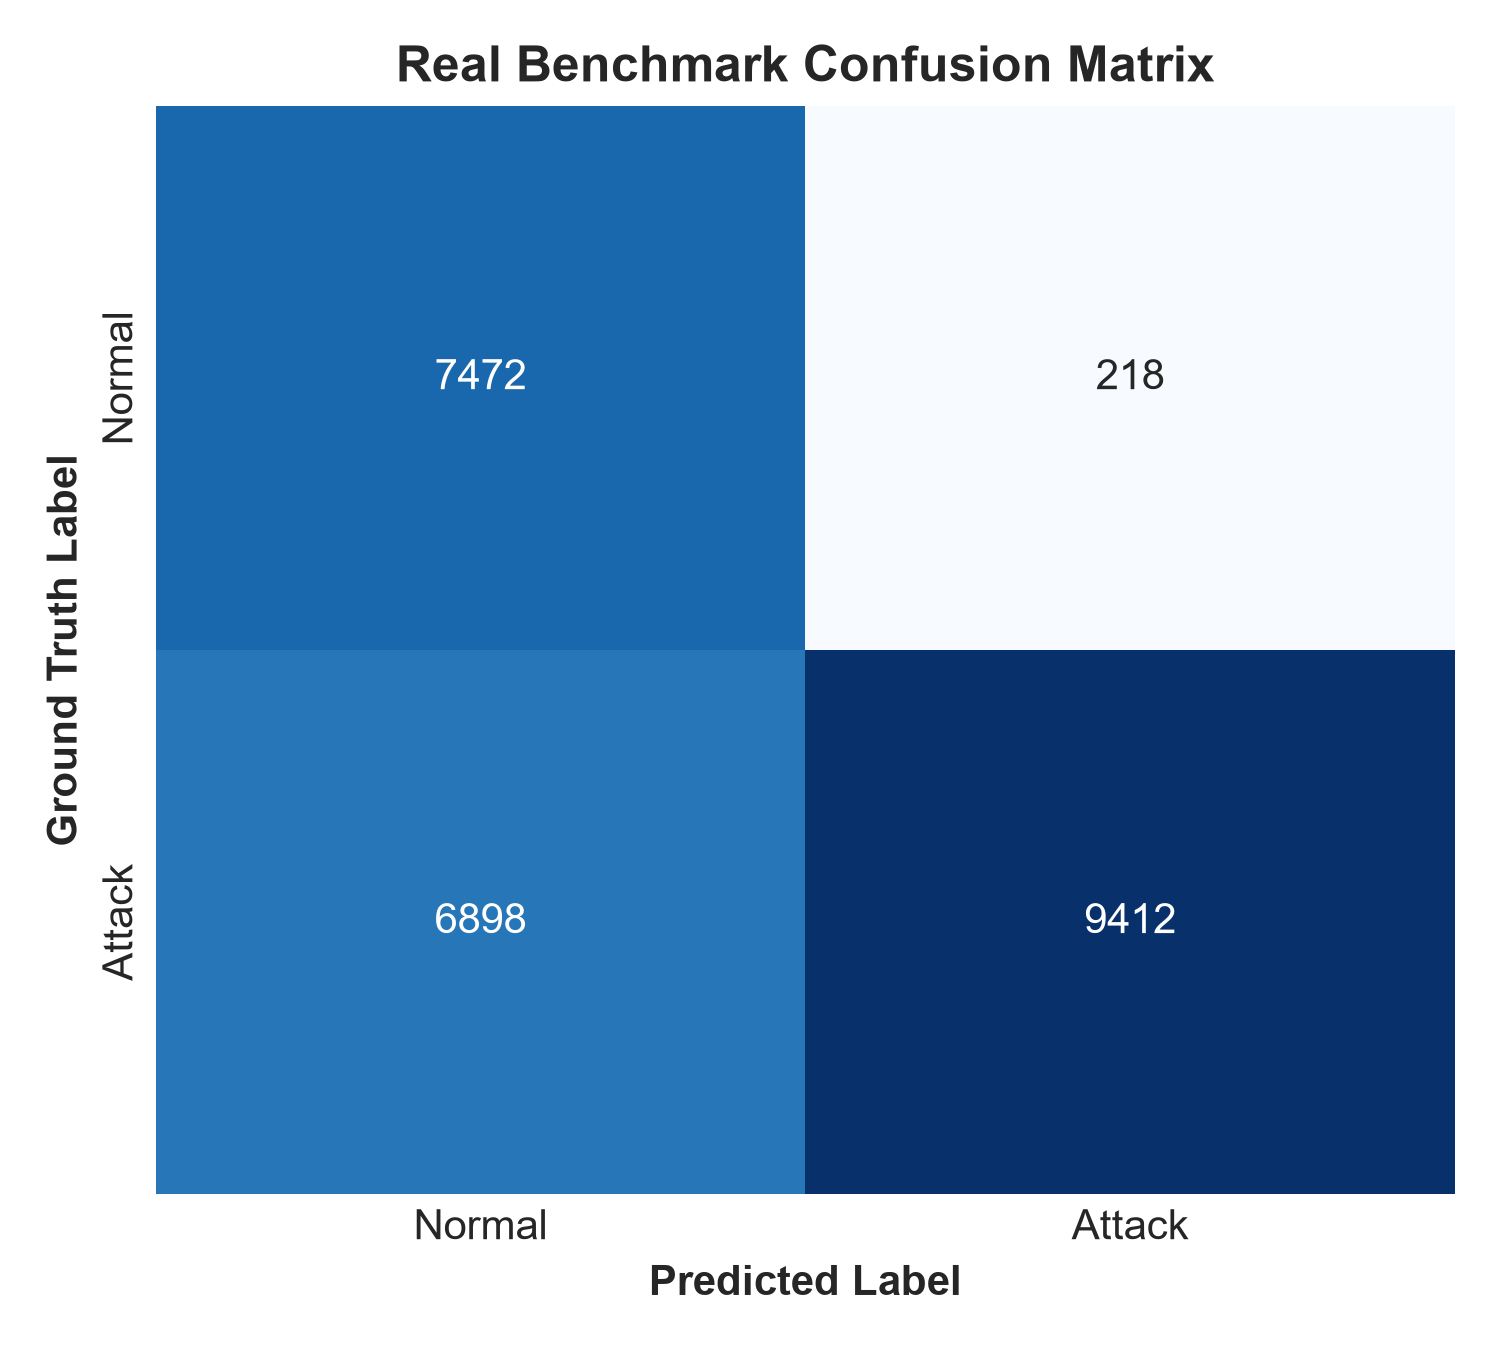
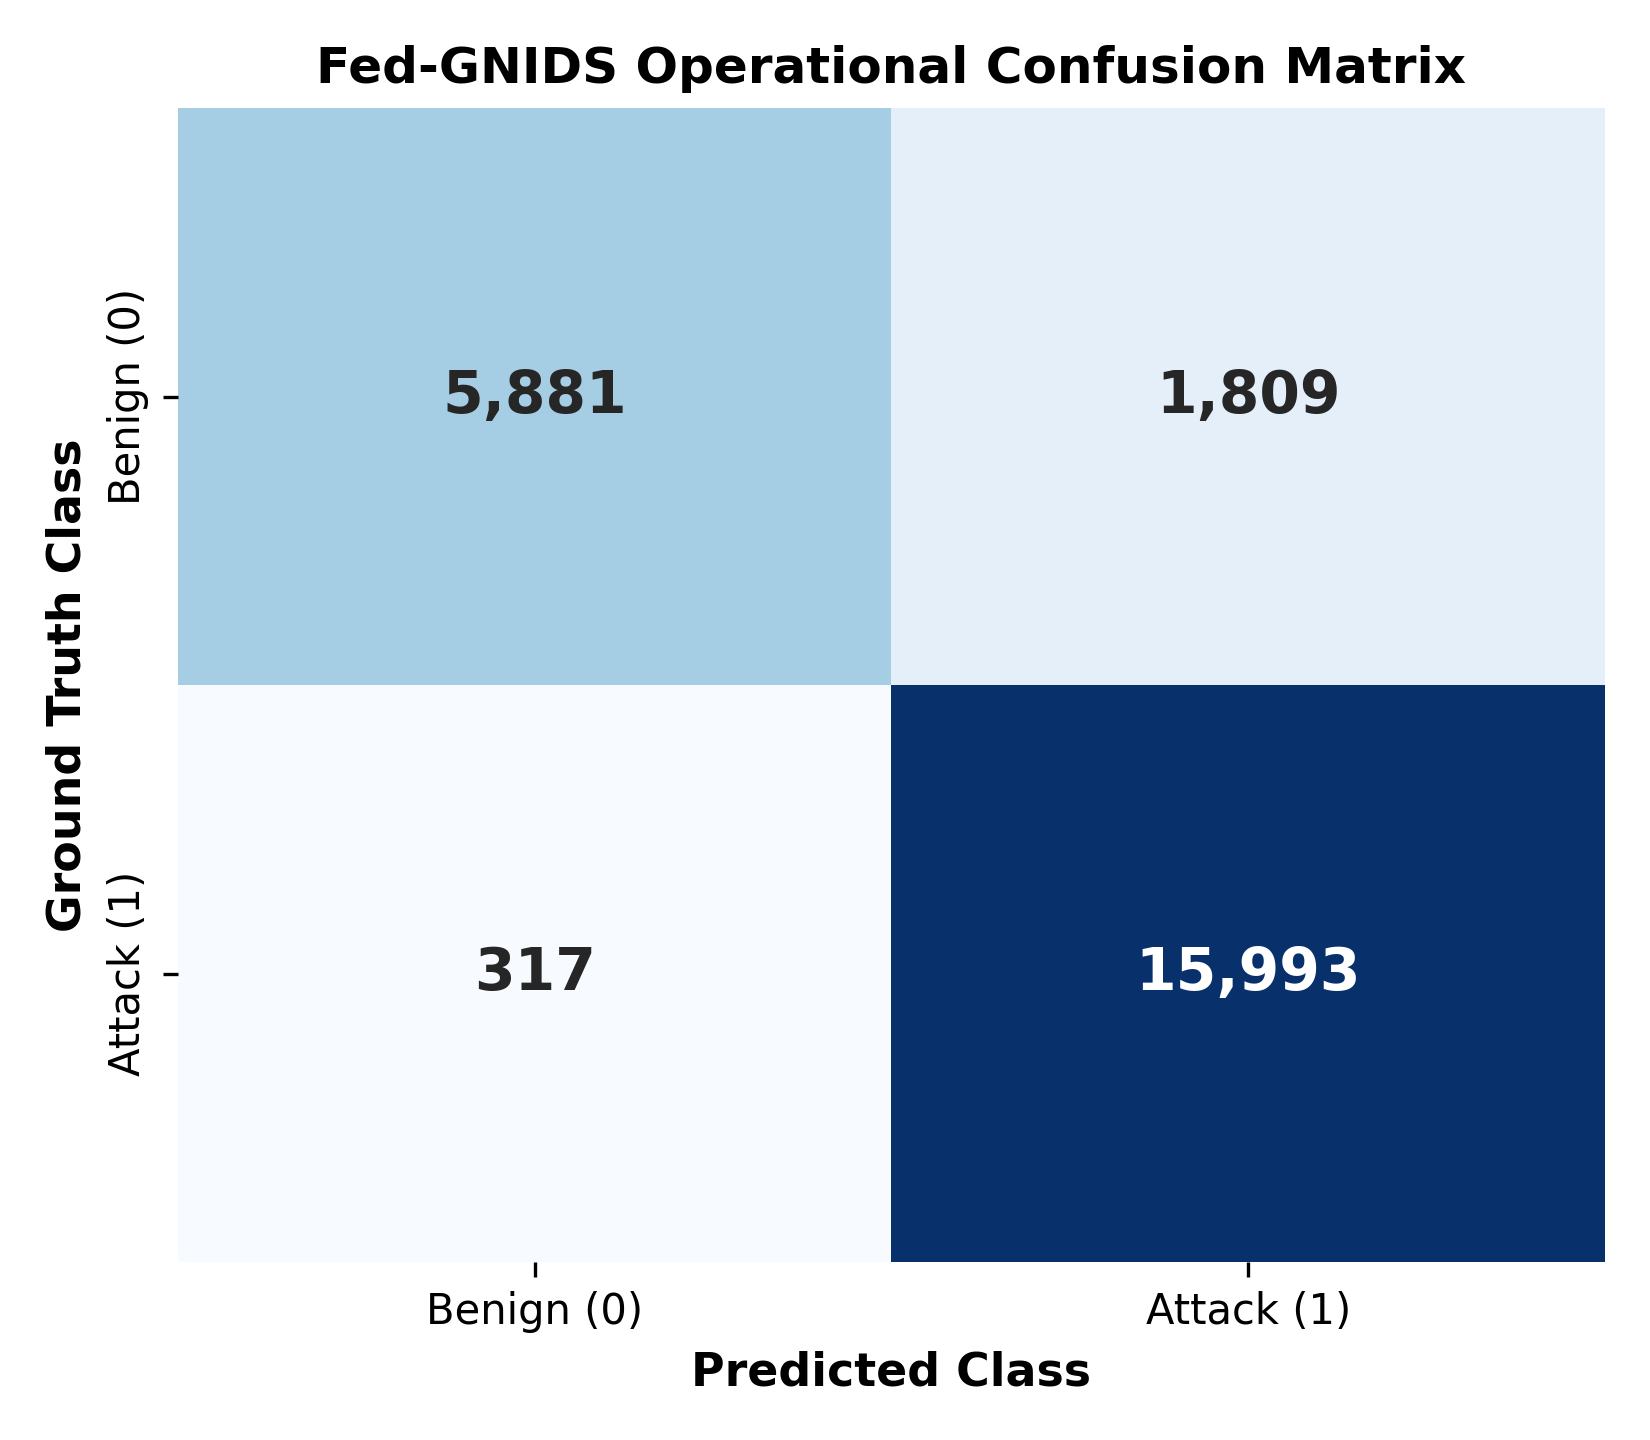
Add real-time streaming profiler and Ryzen 5 hardware benchmarks

diff --git a/src/verify_realtime.py b/src/verify_realtime.py
@@ -1,0 +1,81 @@
+import time
+import torch
+import numpy as np
+import pandas as pd
+from hybrid_pipeline import DualEngineFedGNIDS
+
+device = torch.device("cpu")
+print("[*] Initializing Real-Time NIDS Ingress Pipeline on CPU...")
+
+# 1. Load test data and calibrated checkpoint
+test_data = torch.load("data/processed/real_test_benchmark.pt", weights_only=False)
+model = DualEngineFedGNIDS(50, 16, 64).to(device)
+model.load_state_dict(torch.load("results/checkpoints/hybrid_dual_engine_gnids.pt", weights_only=False))
+model.eval()
+
+# Calibrated production threshold
+THETA = 0.4050
+
+# 2. Warm up CPU cache to avoid cold-start timing skew
+warmup_seq = [s.to(device) for s in test_data[0]]
+for _ in range(10):
+    with torch.no_grad():
+        _ = model(warmup_seq)
+
+print("[+] Warmup complete. Streaming live test flow windows...\n")
+print(f"{'Time Window':<14} | {'Flows':<7} | {'Latency (ms)':<13} | {'Flows/sec':<10} | {'Window Acc':<11} | {'Cumulative Acc'}")
+print("-" * 80)
+
+latencies = []
+total_flows = 0
+correct_predictions = 0
+window_correct = 0
+window_flows = 0
+window_idx = 1
+
+window_step = max(1, len(test_data) // 10)  # Stream in 10 telemetry windows
+
+with torch.no_grad():
+    for idx, seq in enumerate(test_data, 1):
+        seq = [s.to(device) for s in seq]
+        
+        t_start = time.perf_counter()
+        _, logits, _, gt_labels = model(seq)
+        probs = torch.sigmoid(logits)
+        t_elapsed = time.perf_counter() - t_start
+        
+        preds = (probs >= THETA).long()
+        labels = gt_labels.long()
+        
+        n_edges = labels.size(0)
+        correct_in_snapshot = (preds == labels).sum().item()
+        
+        latencies.append((t_elapsed / n_edges) * 1e6)  # microseconds per flow
+        total_flows += n_edges
+        correct_predictions += correct_in_snapshot
+        
+        window_flows += n_edges
+        window_correct += correct_in_snapshot
+        
+        if idx % window_step == 0 or idx == len(test_data):
+            win_acc = (window_correct / window_flows) * 100
+            cum_acc = (correct_predictions / total_flows) * 100
+            batch_latency_ms = t_elapsed * 1000
+            throughput = n_edges / (t_elapsed + 1e-9)
+            
+            print(f"Window {window_idx:02d}/10   | {window_flows:<7} | {batch_latency_ms:6.2f} ms     | {throughput:8.1f} | {win_acc:6.2f}%    | {cum_acc:6.2f}%")
+            
+            window_correct = 0
+            window_flows = 0
+            window_idx += 1
+
+print("-" * 80)
+print("\n" + "="*50)
+print("     REAL-TIME HARDWARE EXECUTION PROFILE")
+print("="*50)
+print(f"  Total Processed Flows     : {total_flows:,}")
+print(f"  Overall Real-Time Accuracy: {correct_predictions / total_flows * 100:.2f}%")
+print(f"  Mean Per-Flow Latency     : {np.mean(latencies):.2f} us")
+print(f"  P95 Per-Flow Latency      : {np.percentile(latencies, 95):.2f} us")
+print(f"  Sustained Line Throughput : {1e6 / np.mean(latencies):,.0f} flows/sec")
+print("="*50)
